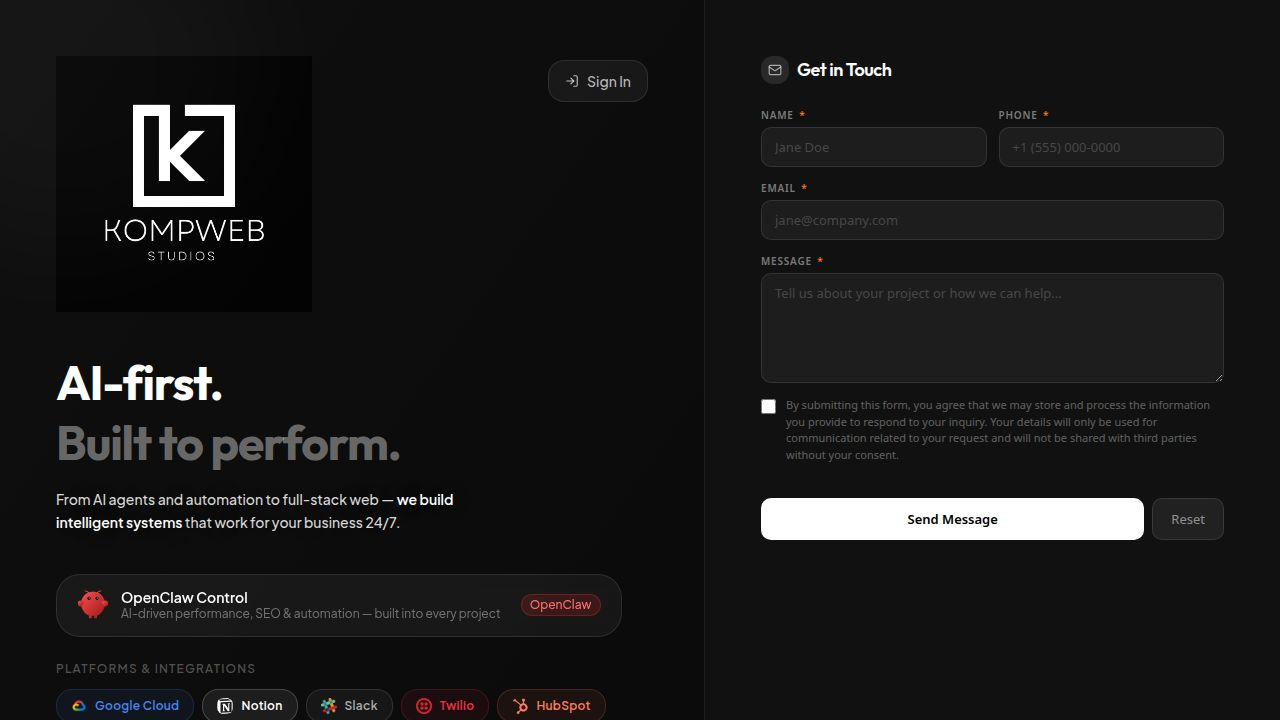
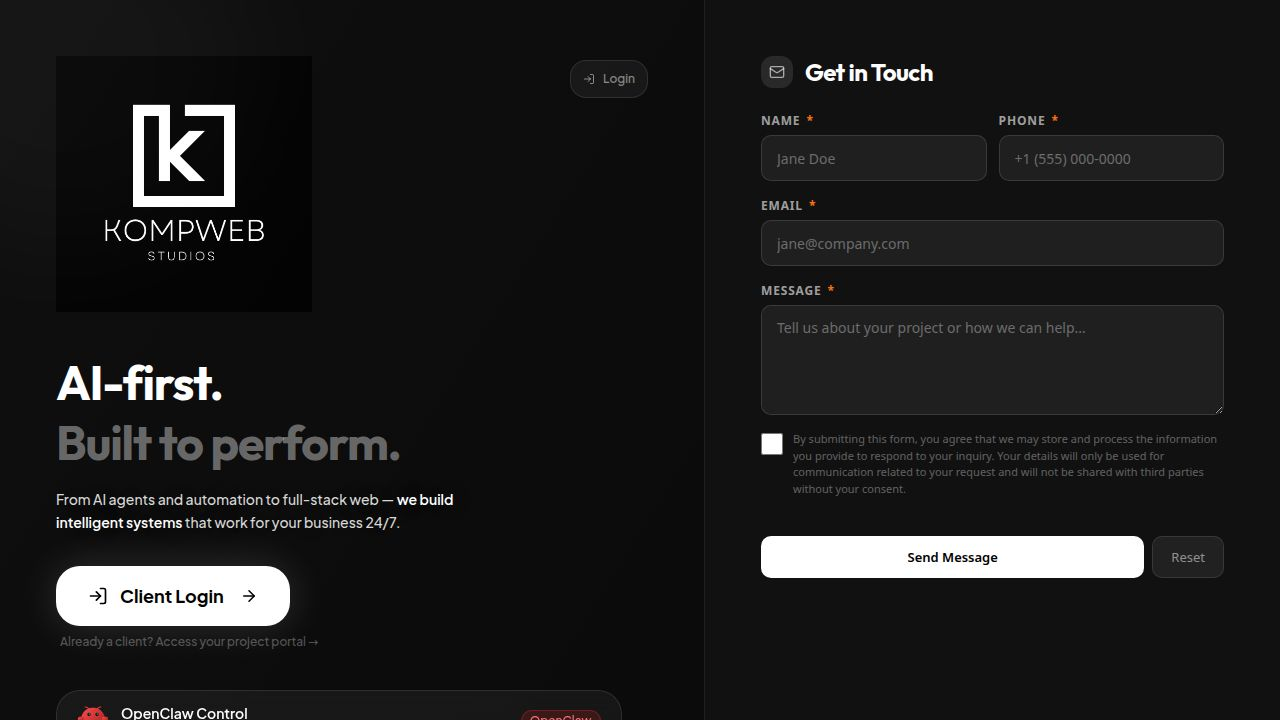
Improve client login call to action on homepage
Update homepage UI to replace the subtle "Sign In" button with a prominent "Client Login" button, styled as a large, bold call to action below the hero section. This change also introduces a secondary, minimal "Login" link in the header for existing clients.

Replit-Commit-Author: Agent
Replit-Commit-Session-Id: a78c8241-eaba-4b7d-bdd6-80f40472e9b8
Replit-Commit-Checkpoint-Type: full_checkpoint
Replit-Commit-Event-Id: 7a2f781a-74e1-44e8-bac6-5827db543907
Replit-Commit-Screenshot-Url: https://storage.googleapis.com/screenshot-production-us-central1/3bd7a339-eb27-4de0-a891-211ba87ee3ac/a78c8241-eaba-4b7d-bdd6-80f40472e9b8/j2ZwXhd
Replit-Helium-Checkpoint-Created: true

diff --git a/artifacts/client-portal/src/pages/home.tsx b/artifacts/client-portal/src/pages/home.tsx
@@ -183,10 +183,10 @@ export function Home() {
                 ) : (
                   <button
                     onClick={() => setLoginOpen(true)}
-                    className="flex items-center gap-2 bg-white/5 hover:bg-white/10 border border-white/10 hover:border-white/20 text-white/70 hover:text-white rounded-xl px-4 py-2.5 text-sm font-medium transition-all duration-150 flex-shrink-0"
+                    className="flex items-center gap-2 bg-white/5 hover:bg-white/10 border border-white/10 hover:border-white/20 text-white/50 hover:text-white rounded-xl px-3 py-2.5 text-xs font-medium transition-all duration-150 flex-shrink-0"
                   >
-                    <LogIn size={14} />
-                    Sign In
+                    <LogIn size={12} />
+                    Login
                   </button>
                 )}
               </div>
@@ -196,11 +196,26 @@ export function Home() {
               AI-first.<br />
               <span className="text-white/40">Built to perform.</span>
             </h1>
-            <p className="text-base md:text-sm max-w-md leading-relaxed font-medium" style={{ color: "rgba(255,255,255,0.85)", textShadow: "0 0 40px rgba(167,139,250,0.25)" }}>
+            <p className="text-base md:text-sm max-w-md leading-relaxed font-medium mb-8" style={{ color: "rgba(255,255,255,0.85)", textShadow: "0 0 40px rgba(167,139,250,0.25)" }}>
               From AI agents and automation to full-stack web —{" "}
               <span className="text-white font-semibold">we build intelligent systems</span>{" "}
               that work for your business 24/7.
             </p>
+
+            {/* ── Big Client Login CTA ── */}
+            {!session && (
+              <div className="flex flex-col items-start gap-2">
+                <button
+                  onClick={() => setLoginOpen(true)}
+                  className="group relative flex items-center gap-3 bg-white text-black font-bold text-lg px-8 py-4 rounded-2xl shadow-[0_0_40px_rgba(255,255,255,0.15)] hover:shadow-[0_0_60px_rgba(255,255,255,0.25)] hover:scale-[1.03] active:scale-[0.98] transition-all duration-200"
+                >
+                  <LogIn size={20} />
+                  Client Login
+                  <ArrowRight size={18} className="ml-1 group-hover:translate-x-1 transition-transform duration-200" />
+                </button>
+                <p className="text-white/30 text-xs font-medium pl-1">Already a client? Access your project portal →</p>
+              </div>
+            )}
           </div>
 
           {/* OpenClaw AI Badge + Integrations + Tech */}
